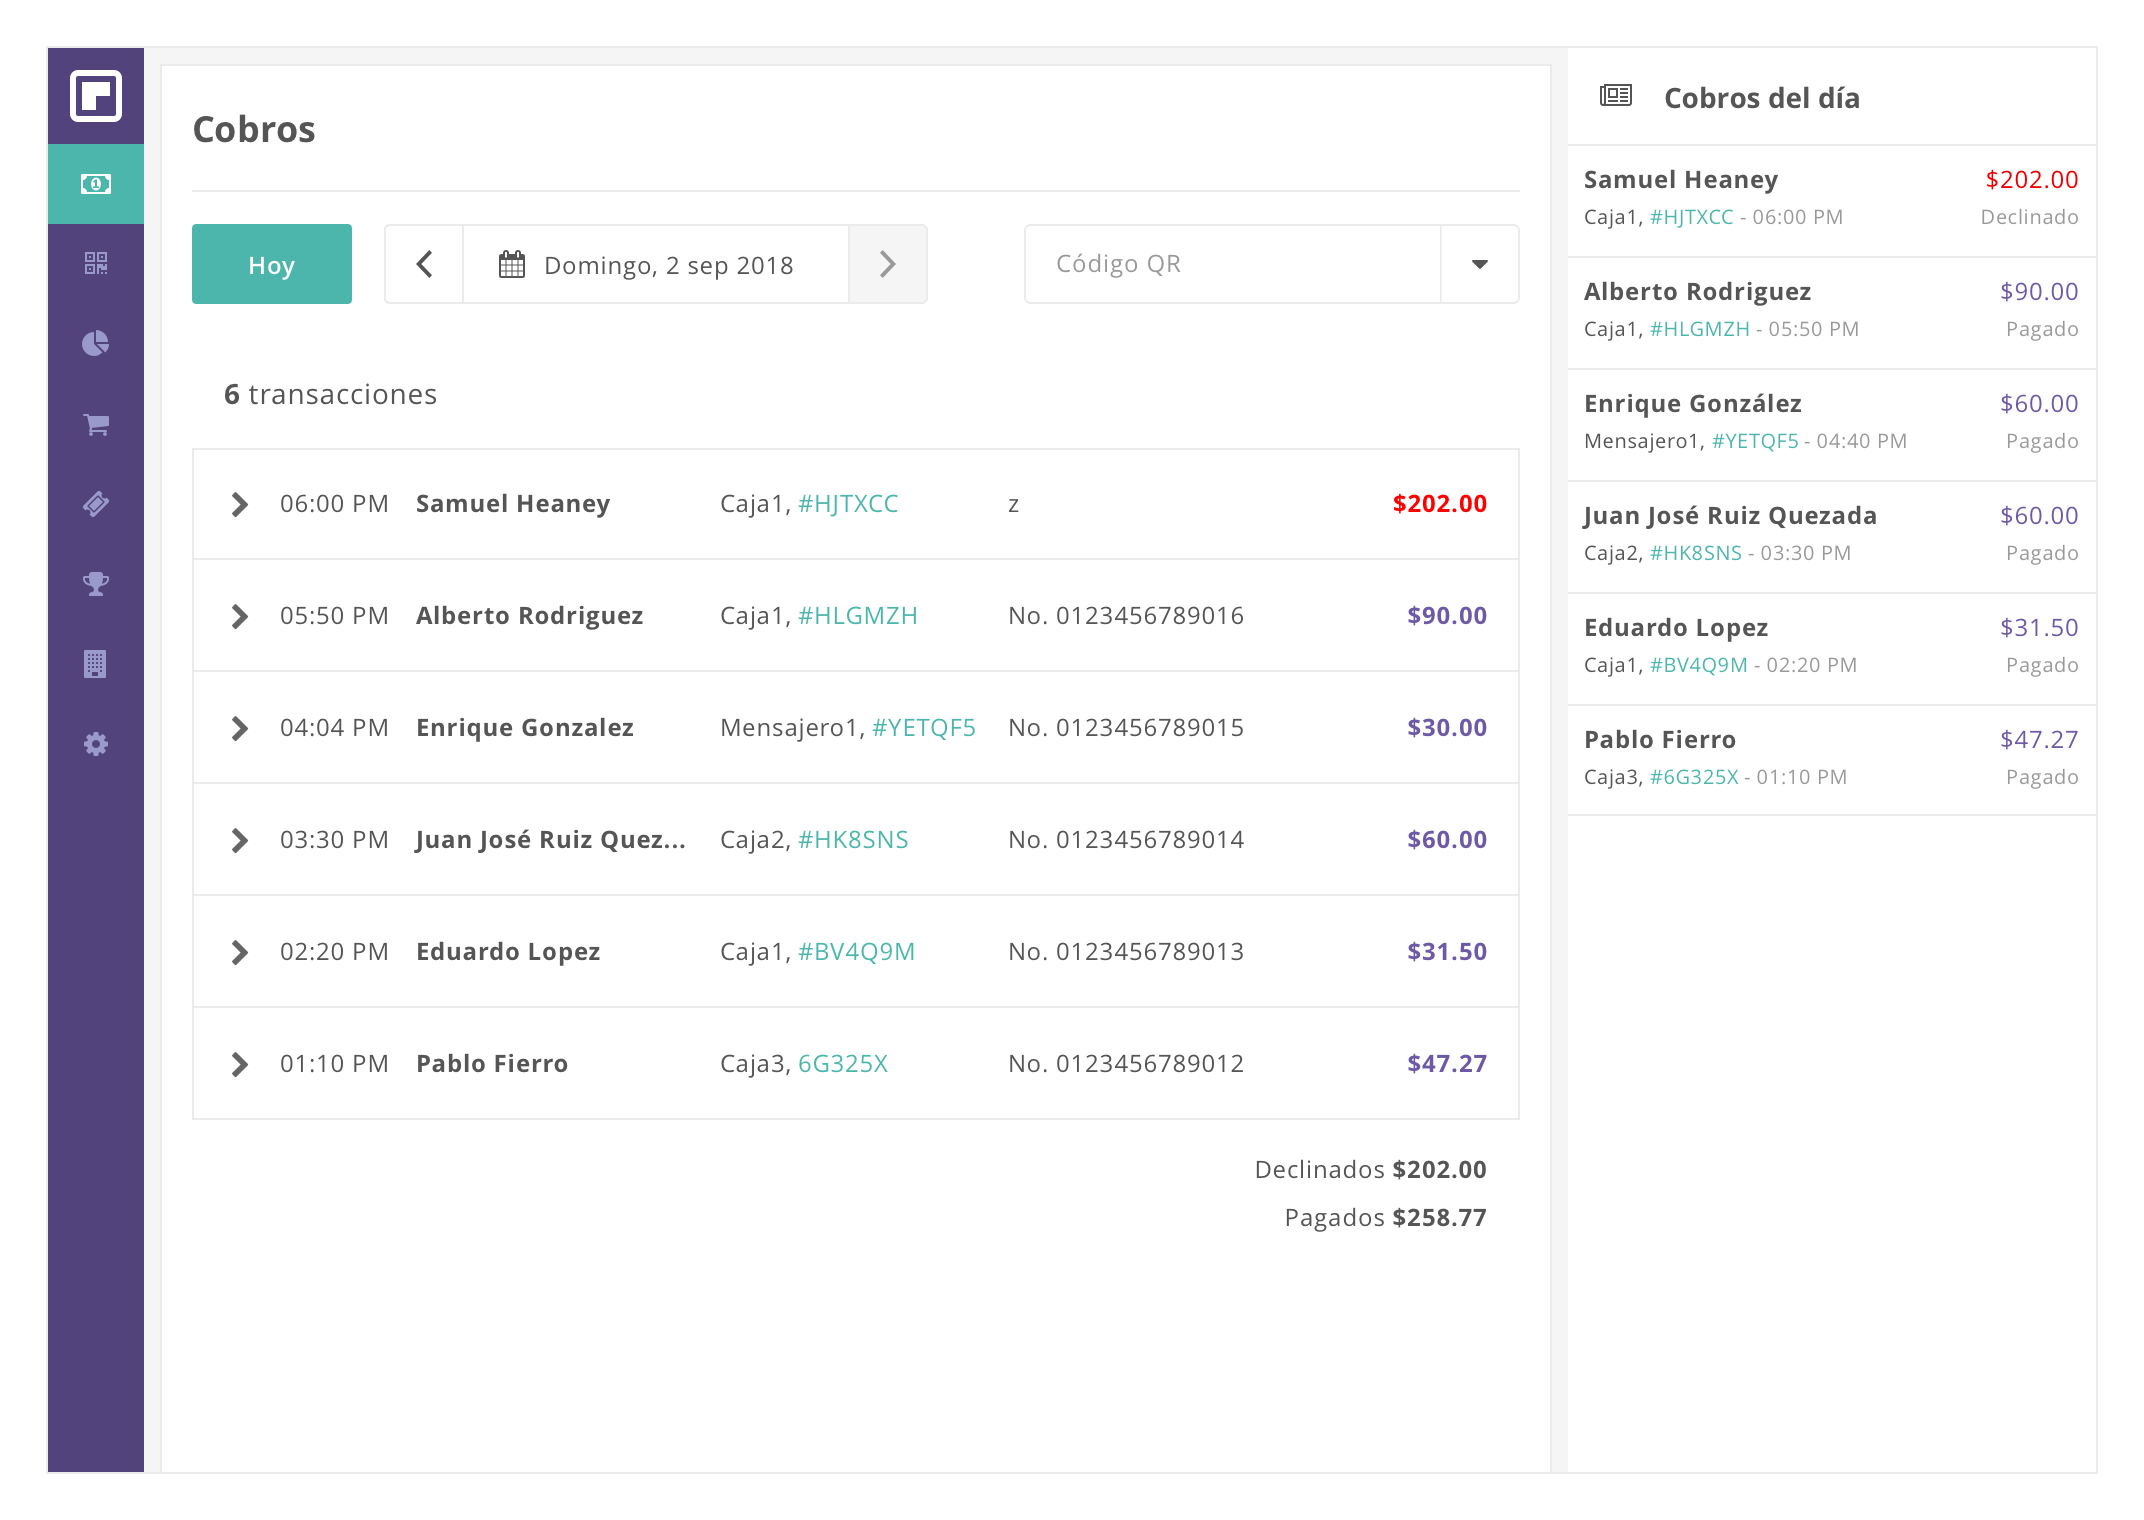
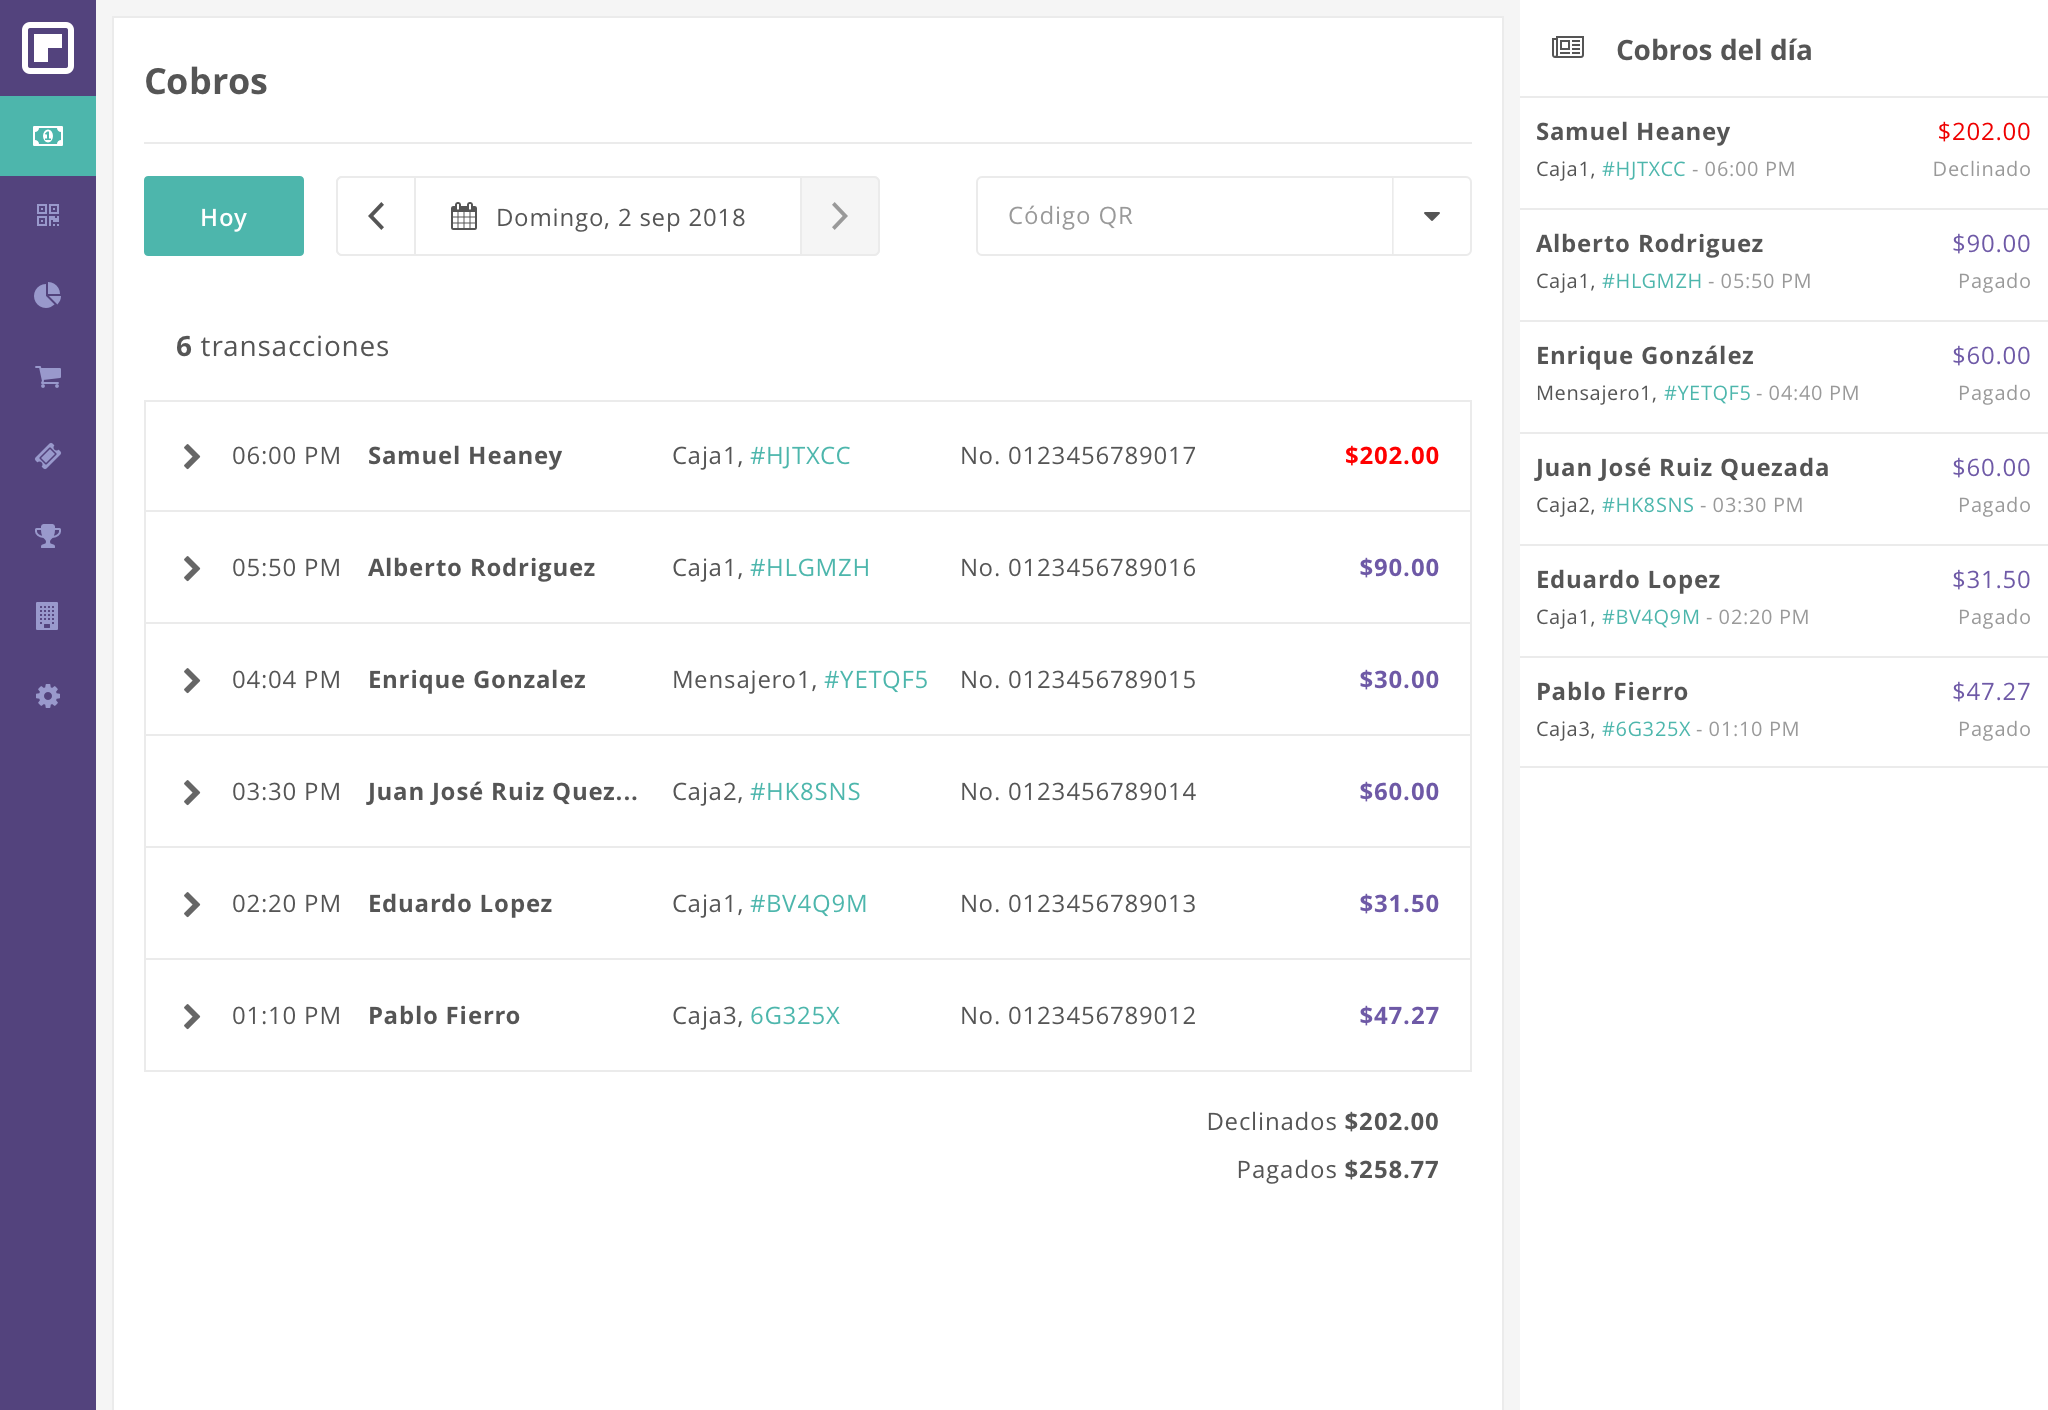
add credytag images

diff --git a/credytag/index.html b/credytag/index.html
@@ -46,7 +46,7 @@
 		</div>
 
 		<figure>
-		    <img src="../images/credytag/credytag-charges.png" alt="Charges">
+		    <img src="../images/credytag/credytag-charges.png" alt="Charges" class="screen">
 		    <figcaption>Web Business Application, "Charges" section</figcaption>
 		</figure>
 
@@ -97,7 +97,7 @@
 		</figure>
 
 		<figure>
-		    <img src="../images/credytag/credytag-v1_mockups.png" alt="Mokcups">
+		    <img src="../images/credytag/credytag-v1_mockups.png" alt="Mockups" class="screen">
 		    <figcaption>Web Business Application, Website & Mobile</figcaption>
 		</figure>
 
@@ -106,16 +106,16 @@
 		</div>
 
 		<figure>
-		    <img src="../images/credytag/credytag-v2_mockups.png" alt="Mokcups Iterations">
+		    <img src="../images/credytag/credytag-v2_mockups.gif" alt="Mockups Iterations" class="screen">
 		    <figcaption>Web Business Application, Iterations</figcaption>
 		</figure>
 
 		<div class="columns">
-			<p>Once the layout was created, I worked on the creation of <em>style guides</em>, as well as a <em>workflow</em> between designers and developers, to facilitate communication and make the work easier. We create a board using <em>InVision</em> to share the components created in the layout, as well as colors, typefaces and styles.</p>
+			<p>Once the layout was created, I worked on the creation of <em>style guides</em>, as well as a <em>workflow</em> between designers and developers, to facilitate communication and make the work easier. We create a board using <a href="https://projects.invisionapp.com/boards/JF381TGWKQYM4" target="_blank">InVision</a> to share the components created in the layout, as well as colors, typefaces and styles.</p>
 		</div>
 
 		<figure>
-		    <img src="../images/credytag/credytag-board.png" alt="Branding Board">
+		    <img src="../images/credytag/credytag-board.png" alt="Branding Board" class="screen">
 		    <figcaption>Credytag Board</figcaption>
 		</figure>
 

diff --git a/css/layout.css b/css/layout.css
@@ -207,7 +207,8 @@ figcaption {
 }
 
 .pdetail figure img {
-	width: 100%;
+	width: 96%;
+	margin-bottom: 8px;
 }
 
 /*Project Detail*/
@@ -264,6 +265,13 @@ figcaption {
 
 .column p {
 	margin: 0 auto 8px;
+}
+
+.screen {
+	/*box-shadow: 0 24px 32px 0 rgba(0,0,0,.05);*/
+	/*margin-bottom: 16px;*/
+	/*border-radius: 8px;*/
+	border: 1px solid #EBEBEB;
 }
 
 
